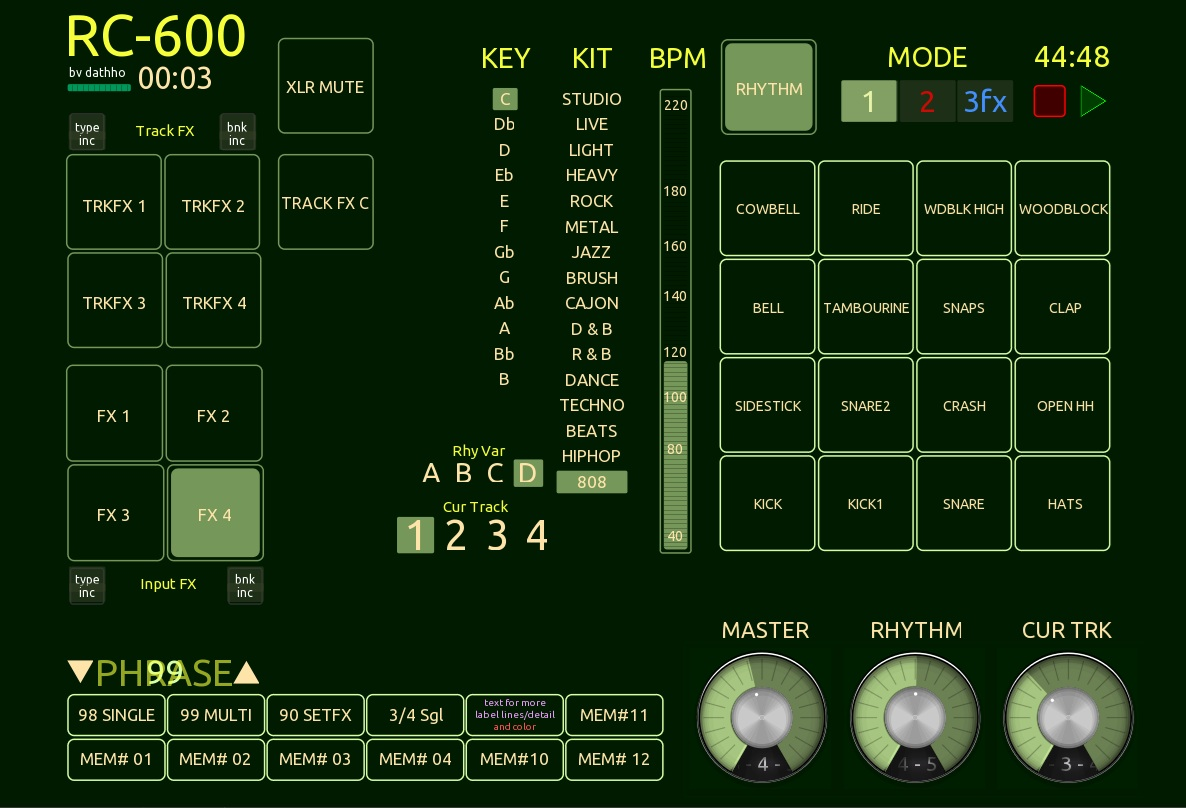
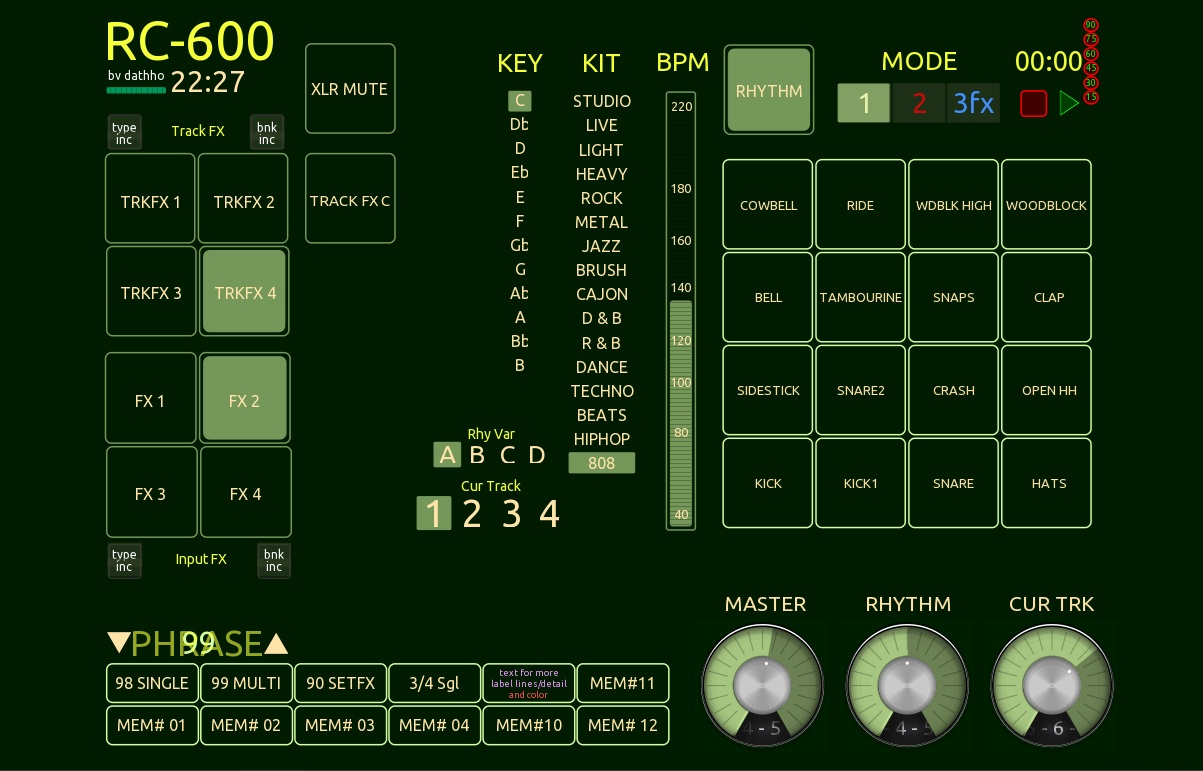
timer popup

Changed region(s): [[0.312, 0.0311, 0.9359, 0.6848], [0.0312, 0.0, 0.3432, 0.7471], [0.0624, 0.7471, 0.9671, 0.965]]

diff --git a/README.md b/README.md
@@ -1,7 +1,9 @@
 # GreenRC
 A touchOSC document for the BOSS RC-600 6-channel looper.
 
-__NEW__  updated gig timer.  It can now count up or down (from 45 min) in the same footprint.  Press the reset when paused for settings UP:DN to select. DN when 00:00 will set for 45 min. Radio button "Time Down Selector" popup almost working to select 15-90 min count down time. Probably some bugs.
+__NEW__  
+__updated gig timer__.  It can now count up or down with selector in the same footprint.  Press the reset when paused for settings UP:DN to select. DN will popup 15-90 min. Radio button.   Probably some bugs.
+__NEW__
 
 This version trades the ASSIGN selecting tracks 5&6, for a tempo slider.
 A TAP TEMPO on the interface didn't work for me, but I like this. It's not accurate on some Genre's so it will probably go away.  I think I know why and it can be adjusted, but it's work.  I tap tempo so don't care much, at times I've had an FS-7 do BPM inc/dec, but even with that my timing's still off.  Comment in the forums or discussion here.
